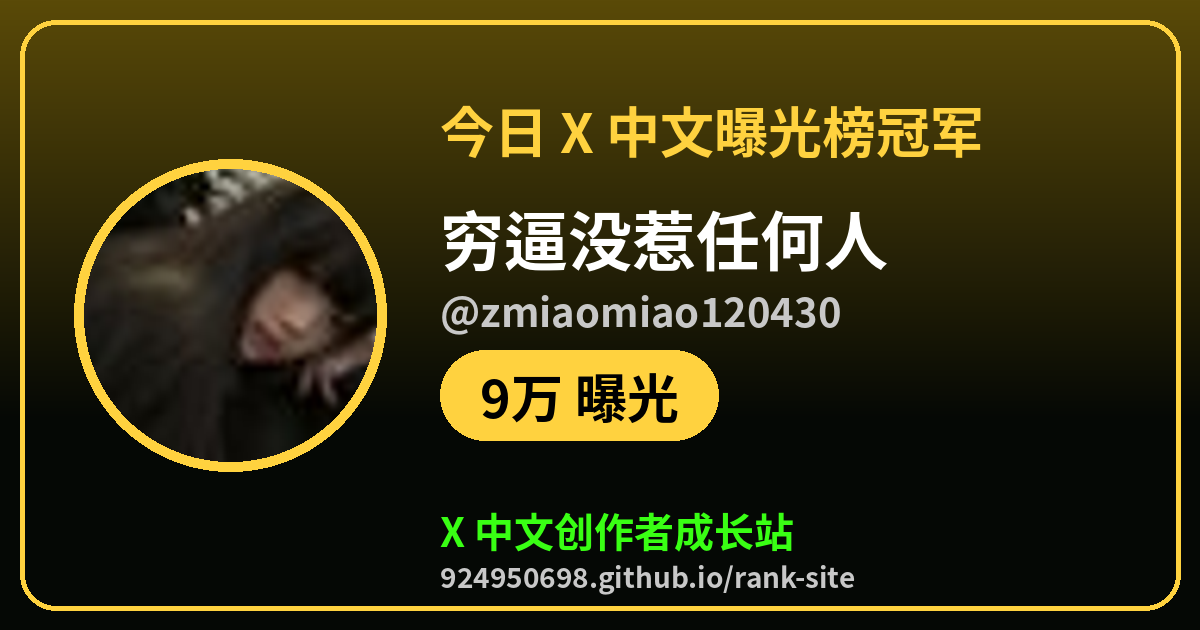
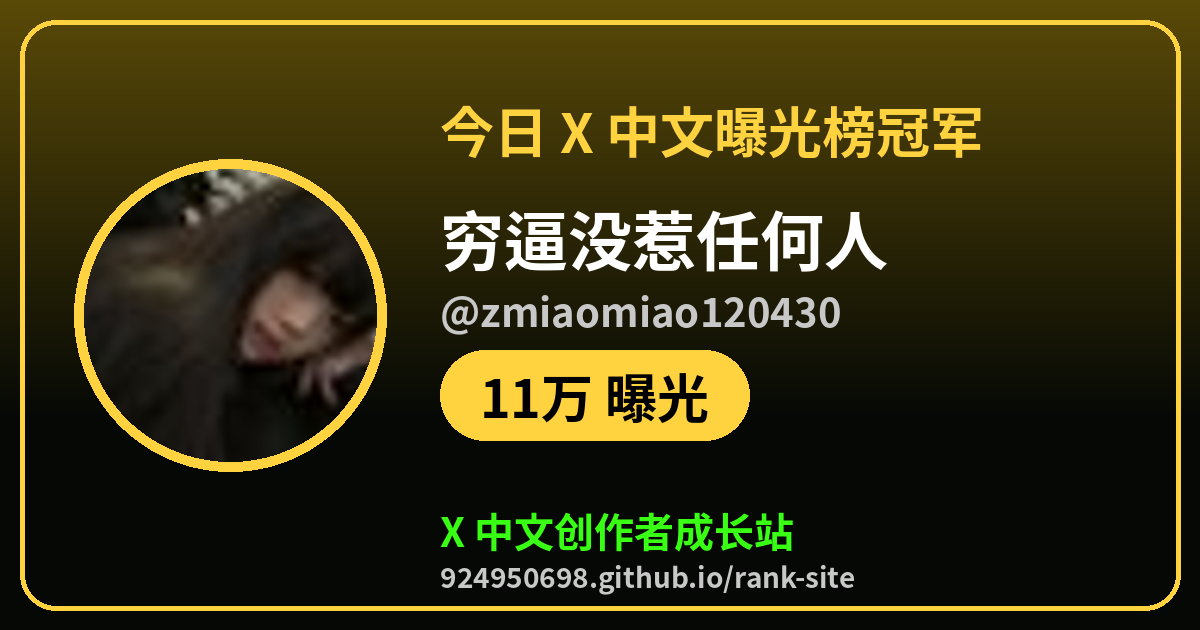
champ: 2026-10-18 04:24 CST

Changed region(s): [[0.4008, 0.5429, 0.6475, 0.6937]]

diff --git a/champ/exposure.html b/champ/exposure.html
@@ -1,7 +1,7 @@
 <!doctype html><html lang="zh-CN"><head><meta charset="utf-8"><meta name="viewport" content="width=device-width,initial-scale=1">
-<title>今日 X 中文曝光榜冠军：穷逼没惹任何人（@zmiaomiao120430）</title><meta name="description" content="9万 曝光，来看看今天谁在爆，你排第几">
-<meta property="og:type" content="website"><meta property="og:url" content="https://924950698.github.io/rank-site/champ/exposure.html"><meta property="og:title" content="今日 X 中文曝光榜冠军：穷逼没惹任何人（@zmiaomiao120430）"><meta property="og:description" content="9万 曝光，来看看今天谁在爆，你排第几">
-<meta property="og:image" content="https://924950698.github.io/rank-site/champ/exposure.png?v=20261017T1909"><meta name="twitter:card" content="summary_large_image"><meta name="twitter:site" content="@tigerr3aue">
-<meta name="twitter:title" content="今日 X 中文曝光榜冠军：穷逼没惹任何人（@zmiaomiao120430）"><meta name="twitter:description" content="9万 曝光，来看看今天谁在爆，你排第几"><meta name="twitter:image" content="https://924950698.github.io/rank-site/champ/exposure.png?v=20261017T1909">
+<title>今日 X 中文曝光榜冠军：穷逼没惹任何人（@zmiaomiao120430）</title><meta name="description" content="11万 曝光，来看看今天谁在爆，你排第几">
+<meta property="og:type" content="website"><meta property="og:url" content="https://924950698.github.io/rank-site/champ/exposure.html"><meta property="og:title" content="今日 X 中文曝光榜冠军：穷逼没惹任何人（@zmiaomiao120430）"><meta property="og:description" content="11万 曝光，来看看今天谁在爆，你排第几">
+<meta property="og:image" content="https://924950698.github.io/rank-site/champ/exposure.png?v=20261017T2007"><meta name="twitter:card" content="summary_large_image"><meta name="twitter:site" content="@tigerr3aue">
+<meta name="twitter:title" content="今日 X 中文曝光榜冠军：穷逼没惹任何人（@zmiaomiao120430）"><meta name="twitter:description" content="11万 曝光，来看看今天谁在爆，你排第几"><meta name="twitter:image" content="https://924950698.github.io/rank-site/champ/exposure.png?v=20261017T2007">
 <meta http-equiv="refresh" content="0;url=https://924950698.github.io/rank-site/?champ=zmiaomiao120430&amp;board=exposure#rank"><script>location.replace("https://924950698.github.io/rank-site/?champ=zmiaomiao120430&board=exposure#rank")</script></head>
 <body style="background:#000;color:#fff;font-family:sans-serif;text-align:center;padding:40px"><a href="https://924950698.github.io/rank-site/?champ=zmiaomiao120430&amp;board=exposure#rank" style="color:#39ff14">去 X 中文创作者成长站看冠军卡片</a></body></html>

diff --git a/champ/comments.html b/champ/comments.html
@@ -1,7 +1,7 @@
 <!doctype html><html lang="zh-CN"><head><meta charset="utf-8"><meta name="viewport" content="width=device-width,initial-scale=1">
-<title>今日 X 中文评论榜冠军：穷逼没惹任何人（@zmiaomiao120430）</title><meta name="description" content="157 评论，来看看今天谁在爆，你排第几">
-<meta property="og:type" content="website"><meta property="og:url" content="https://924950698.github.io/rank-site/champ/comments.html"><meta property="og:title" content="今日 X 中文评论榜冠军：穷逼没惹任何人（@zmiaomiao120430）"><meta property="og:description" content="157 评论，来看看今天谁在爆，你排第几">
-<meta property="og:image" content="https://924950698.github.io/rank-site/champ/comments.png?v=20261017T1909"><meta name="twitter:card" content="summary_large_image"><meta name="twitter:site" content="@tigerr3aue">
-<meta name="twitter:title" content="今日 X 中文评论榜冠军：穷逼没惹任何人（@zmiaomiao120430）"><meta name="twitter:description" content="157 评论，来看看今天谁在爆，你排第几"><meta name="twitter:image" content="https://924950698.github.io/rank-site/champ/comments.png?v=20261017T1909">
+<title>今日 X 中文评论榜冠军：穷逼没惹任何人（@zmiaomiao120430）</title><meta name="description" content="171 评论，来看看今天谁在爆，你排第几">
+<meta property="og:type" content="website"><meta property="og:url" content="https://924950698.github.io/rank-site/champ/comments.html"><meta property="og:title" content="今日 X 中文评论榜冠军：穷逼没惹任何人（@zmiaomiao120430）"><meta property="og:description" content="171 评论，来看看今天谁在爆，你排第几">
+<meta property="og:image" content="https://924950698.github.io/rank-site/champ/comments.png?v=20261017T2007"><meta name="twitter:card" content="summary_large_image"><meta name="twitter:site" content="@tigerr3aue">
+<meta name="twitter:title" content="今日 X 中文评论榜冠军：穷逼没惹任何人（@zmiaomiao120430）"><meta name="twitter:description" content="171 评论，来看看今天谁在爆，你排第几"><meta name="twitter:image" content="https://924950698.github.io/rank-site/champ/comments.png?v=20261017T2007">
 <meta http-equiv="refresh" content="0;url=https://924950698.github.io/rank-site/?champ=zmiaomiao120430&amp;board=comments#rank"><script>location.replace("https://924950698.github.io/rank-site/?champ=zmiaomiao120430&board=comments#rank")</script></head>
 <body style="background:#000;color:#fff;font-family:sans-serif;text-align:center;padding:40px"><a href="https://924950698.github.io/rank-site/?champ=zmiaomiao120430&amp;board=comments#rank" style="color:#39ff14">去 X 中文创作者成长站看冠军卡片</a></body></html>

diff --git a/champ/rising.html b/champ/rising.html
@@ -1,7 +1,7 @@
 <!doctype html><html lang="zh-CN"><head><meta charset="utf-8"><meta name="viewport" content="width=device-width,initial-scale=1">
 <title>今日 X 中文新号进步榜冠军：NiRox（@nirox0216）</title><meta name="description" content="+461 粉，来看看今天谁在爆，你排第几">
 <meta property="og:type" content="website"><meta property="og:url" content="https://924950698.github.io/rank-site/champ/rising.html"><meta property="og:title" content="今日 X 中文新号进步榜冠军：NiRox（@nirox0216）"><meta property="og:description" content="+461 粉，来看看今天谁在爆，你排第几">
-<meta property="og:image" content="https://924950698.github.io/rank-site/champ/rising.png?v=20261017T1909"><meta name="twitter:card" content="summary_large_image"><meta name="twitter:site" content="@tigerr3aue">
-<meta name="twitter:title" content="今日 X 中文新号进步榜冠军：NiRox（@nirox0216）"><meta name="twitter:description" content="+461 粉，来看看今天谁在爆，你排第几"><meta name="twitter:image" content="https://924950698.github.io/rank-site/champ/rising.png?v=20261017T1909">
+<meta property="og:image" content="https://924950698.github.io/rank-site/champ/rising.png?v=20261017T2007"><meta name="twitter:card" content="summary_large_image"><meta name="twitter:site" content="@tigerr3aue">
+<meta name="twitter:title" content="今日 X 中文新号进步榜冠军：NiRox（@nirox0216）"><meta name="twitter:description" content="+461 粉，来看看今天谁在爆，你排第几"><meta name="twitter:image" content="https://924950698.github.io/rank-site/champ/rising.png?v=20261017T2007">
 <meta http-equiv="refresh" content="0;url=https://924950698.github.io/rank-site/?champ=nirox0216&amp;board=rising#rank"><script>location.replace("https://924950698.github.io/rank-site/?champ=nirox0216&board=rising#rank")</script></head>
 <body style="background:#000;color:#fff;font-family:sans-serif;text-align:center;padding:40px"><a href="https://924950698.github.io/rank-site/?champ=nirox0216&amp;board=rising#rank" style="color:#39ff14">去 X 中文创作者成长站看冠军卡片</a></body></html>

diff --git a/champ/growth.html b/champ/growth.html
@@ -1,7 +1,7 @@
 <!doctype html><html lang="zh-CN"><head><meta charset="utf-8"><meta name="viewport" content="width=device-width,initial-scale=1">
 <title>今日 X 中文涨粉榜冠军：NiRox（@nirox0216）</title><meta name="description" content="+461 粉，来看看今天谁在爆，你排第几">
 <meta property="og:type" content="website"><meta property="og:url" content="https://924950698.github.io/rank-site/champ/growth.html"><meta property="og:title" content="今日 X 中文涨粉榜冠军：NiRox（@nirox0216）"><meta property="og:description" content="+461 粉，来看看今天谁在爆，你排第几">
-<meta property="og:image" content="https://924950698.github.io/rank-site/champ/growth.png?v=20261017T1909"><meta name="twitter:card" content="summary_large_image"><meta name="twitter:site" content="@tigerr3aue">
-<meta name="twitter:title" content="今日 X 中文涨粉榜冠军：NiRox（@nirox0216）"><meta name="twitter:description" content="+461 粉，来看看今天谁在爆，你排第几"><meta name="twitter:image" content="https://924950698.github.io/rank-site/champ/growth.png?v=20261017T1909">
+<meta property="og:image" content="https://924950698.github.io/rank-site/champ/growth.png?v=20261017T2007"><meta name="twitter:card" content="summary_large_image"><meta name="twitter:site" content="@tigerr3aue">
+<meta name="twitter:title" content="今日 X 中文涨粉榜冠军：NiRox（@nirox0216）"><meta name="twitter:description" content="+461 粉，来看看今天谁在爆，你排第几"><meta name="twitter:image" content="https://924950698.github.io/rank-site/champ/growth.png?v=20261017T2007">
 <meta http-equiv="refresh" content="0;url=https://924950698.github.io/rank-site/?champ=nirox0216&amp;board=growth#rank"><script>location.replace("https://924950698.github.io/rank-site/?champ=nirox0216&board=growth#rank")</script></head>
 <body style="background:#000;color:#fff;font-family:sans-serif;text-align:center;padding:40px"><a href="https://924950698.github.io/rank-site/?champ=nirox0216&amp;board=growth#rank" style="color:#39ff14">去 X 中文创作者成长站看冠军卡片</a></body></html>
